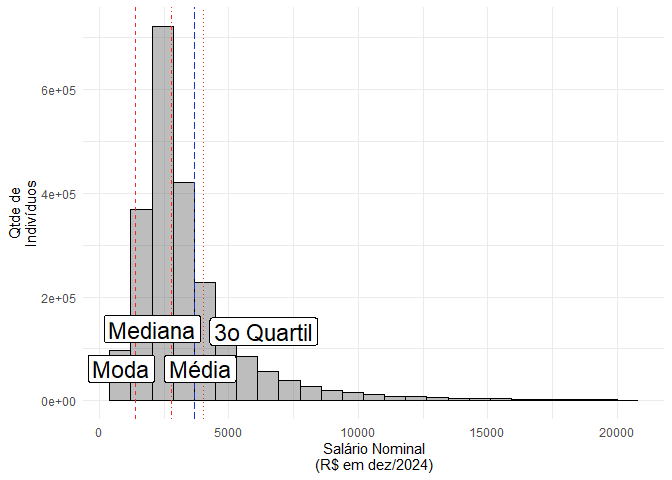
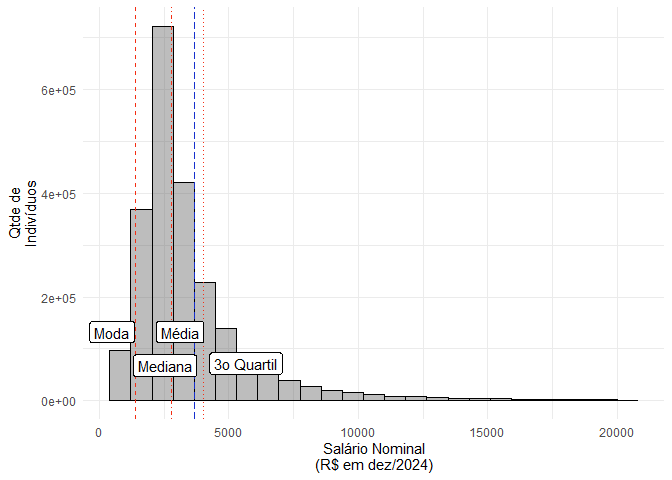
correções de texto

Changed region(s): [[0.125, 0.6562, 0.4688, 0.8125]]

diff --git a/README.html b/README.html
@@ -620,11 +620,11 @@ Como os arquivos são muito grandes e pesados, este processo leva um
 certo tempo. Todavia uma opção mais célere é fazer diretamente os passos
 i. e ii., sem os comandos do R. Também caso se queira com dados de
 vários anos ou estados simultaneamente, recomendo seguir os passos
-disponibilizados por <strong>Matheis Stivali</strong>, podendo ser
+disponibilizados por <strong>Matheus Stivali</strong>, podendo ser
 acessados <a href="https://rpubs.com/mstivali/RAIS1">aqui</a>.</p>
 <pre class="r"><code>dim(dado)</code></pre>
 <pre><code>## [1] 13873188       60</code></pre>
-<p>O objeto <em>dado</em> é um data.frame com 14.859.895 linhas e 60
+<p>O objeto <em>dado</em> é um data.frame com 13.873.188 linhas e 60
 colunas e que contém as informações de vínculos de trabalho dos estados
 da região sul. Os passos a seguir resume-se em formatar os nomes dos
 vetores e criar a variável <em>uf</em> (a partir do código IBGE do
@@ -1027,10 +1027,10 @@ geom_vline(xintercept = tab_summary$Moda, linetype = &#39;dashed&#39;, color = &
 geom_vline(xintercept = tab_summary$Median, linetype = &#39;dotdash&#39;, color = &#39;#f42e13&#39;) +
 geom_vline(xintercept = tab_summary$`X3rd.Qu.`, linetype = &#39;dotted&#39;, color = &#39;#f42e13&#39;) +
 ggrepel::geom_label_repel(data = label, aes(x = posicao,
-           y = rep(100000,4), label = label), size =6) +
+           y = rep(100000,4), label = label), size =4) +
 xlab(&#39;Salário Nominal\n(R$ em dez/2024)&#39;) +
 ylab(&#39;Qtde de\nIndivíduos&#39;)</code></pre>
[2 lines of base64/hex data omitted]
 <p>Podemos também fazer esta análise descritiva do salário para outros
 grupos de variáveis. Desta vez irei utilizar uma variável para os
 municípios, entretanto, Santa Catarina conta com 295 cidades, o que
@@ -1412,19 +1412,20 @@ Até 5.000
 <p>Por fim, uma maneira gráfica de ilustrar as diferenças salariais
 entre os homens e as mulheres é um gráfico <em>quantis x quantis</em> (q
 x q), ou seja, um gráfico ordenado dos quantis dos salários dos homens
-contra os mesmos quantis dos salários das mulheres.</p>
+contra os mesmos quantis dos salários das mulheres (de novo, por conta
+de outliers, elaborei o gráfico terminando no quantil 95).</p>
 <pre class="r"><code>qq_data &lt;- with(dado[dado$vl_remun_dezembro_nom &gt; 0,],
          split(vl_remun_dezembro_nom, sexo_trabalhador))
 
-qq_data &lt;- data.frame(&#39;Homens&#39; = quantile(qq_data[[1]], probs = seq(0, 1, 0.005)),
-            &#39;Mulheres&#39; = quantile(qq_data[[2]], probs = seq(0,1, 0.005)))
+qq_data &lt;- data.frame(&#39;Homens&#39; = quantile(qq_data[[1]], probs = seq(0, .95, 0.005)),
+            &#39;Mulheres&#39; = quantile(qq_data[[2]], probs = seq(0,.95, 0.005)))
 
  ggplot(qq_data , aes(x =Homens, 
                        y = Mulheres)) + 
     geom_point() +
     geom_abline(aes(slope = 1, intercept = 0), linetype = 2) +
     coord_equal()</code></pre>
[2 lines of base64/hex data omitted]
 </div>
 <div id="considerações" class="section level3">
 <h3>Considerações</h3>

diff --git a/README.md b/README.md
@@ -1,14 +1,3 @@
----
-output: 
-  html_document:
-    keep_md: true
-    self_contained: true
-editor_options:
-  markdown:
-    mode: gfm
----
-
-
 
 ## Sobre o repositório
 
@@ -36,7 +25,7 @@ Google BigQuery, torna o processo de ETL bem leve e rápido. Entretanto, como qu
 O processo a seguir consiste em i. baixar o arquivo compactado para um diretório temporário, ii. extrair e por fim iii. ler os dados brutos. Como os 
 arquivos são muito grandes e pesados, este processo leva um certo tempo. Todavia
 uma opção mais célere é fazer diretamente os passos i. e ii., sem os comandos do R. Também caso se queira com dados de vários anos ou estados simultaneamente, recomendo
-seguir os passos disponibilizados por **Matheis Stivali**, podendo ser acessados [aqui](https://rpubs.com/mstivali/RAIS1).
+seguir os passos disponibilizados por **Matheus Stivali**, podendo ser acessados [aqui](https://rpubs.com/mstivali/RAIS1).
 
 
 
@@ -48,7 +37,7 @@ dim(dado)
 ```
 ## [1] 13873188       60
 ```
-O objeto _dado_ é um data.frame com 14.859.895 linhas e 60 colunas e que contém as informações de vínculos de trabalho dos estados da região sul. 
+O objeto _dado_ é um data.frame com 13.873.188 linhas e 60 colunas e que contém as informações de vínculos de trabalho dos estados da região sul. 
 Os passos a seguir resume-se em formatar os nomes dos vetores e criar a variável _uf_ (a partir do código IBGE do município),
  em vista que sintetizarei a análise a apenas ao estado de Santa Catarina.
 
@@ -327,7 +316,7 @@ geom_vline(xintercept = tab_summary$Moda, linetype = 'dashed', color = '#f42e13'
 geom_vline(xintercept = tab_summary$Median, linetype = 'dotdash', color = '#f42e13') +
 geom_vline(xintercept = tab_summary$`X3rd.Qu.`, linetype = 'dotted', color = '#f42e13') +
 ggrepel::geom_label_repel(data = label, aes(x = posicao,
-           y = rep(100000,4), label = label), size =6) +
+           y = rep(100000,4), label = label), size =4) +
 xlab('Salário Nominal\n(R$ em dez/2024)') +
 ylab('Qtde de\nIndivíduos')
 ```
@@ -524,15 +513,16 @@ kable(tab_salario_faixa_pop,align = "c",
 </table>
 
 Por fim, uma maneira gráfica de ilustrar as diferenças salariais entre os homens e as mulheres é um gráfico _quantis x quantis_ (q x q), ou seja, 
-um gráfico ordenado dos quantis dos salários dos homens contra os mesmos quantis dos salários das mulheres.
+um gráfico ordenado dos quantis dos salários dos homens contra os mesmos quantis dos salários das mulheres (de novo, por conta de outliers, elaborei 
+o gráfico terminando no quantil 95).
 
 
 ```r
 qq_data <- with(dado[dado$vl_remun_dezembro_nom > 0,],
          split(vl_remun_dezembro_nom, sexo_trabalhador))
 
-qq_data <- data.frame('Homens' = quantile(qq_data[[1]], probs = seq(0, 1, 0.005)),
-            'Mulheres' = quantile(qq_data[[2]], probs = seq(0,1, 0.005)))
+qq_data <- data.frame('Homens' = quantile(qq_data[[1]], probs = seq(0, .95, 0.005)),
+            'Mulheres' = quantile(qq_data[[2]], probs = seq(0,.95, 0.005)))
 
  ggplot(qq_data , aes(x =Homens, 
                        y = Mulheres)) + 
